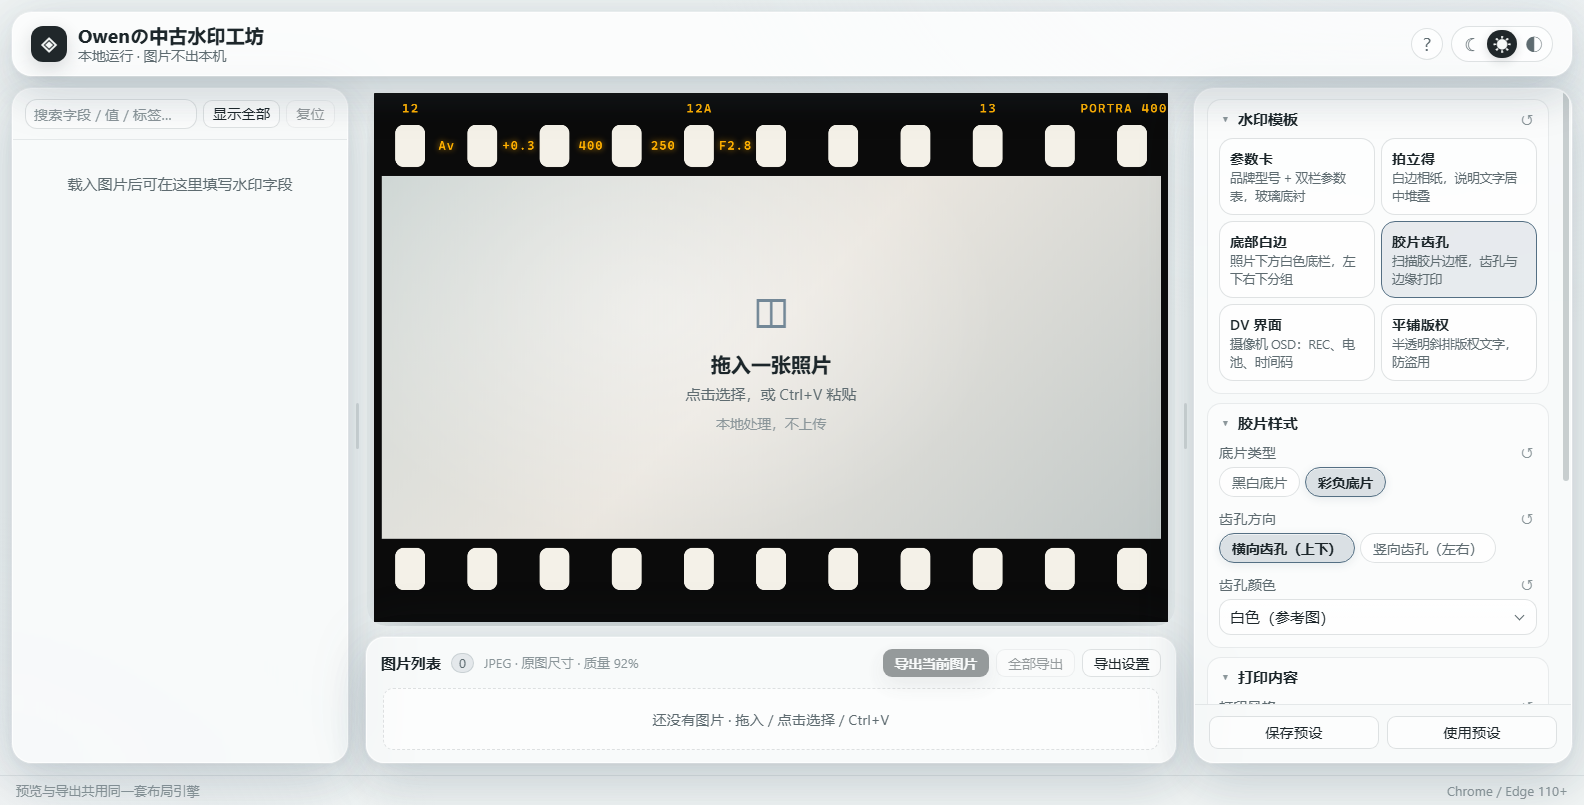
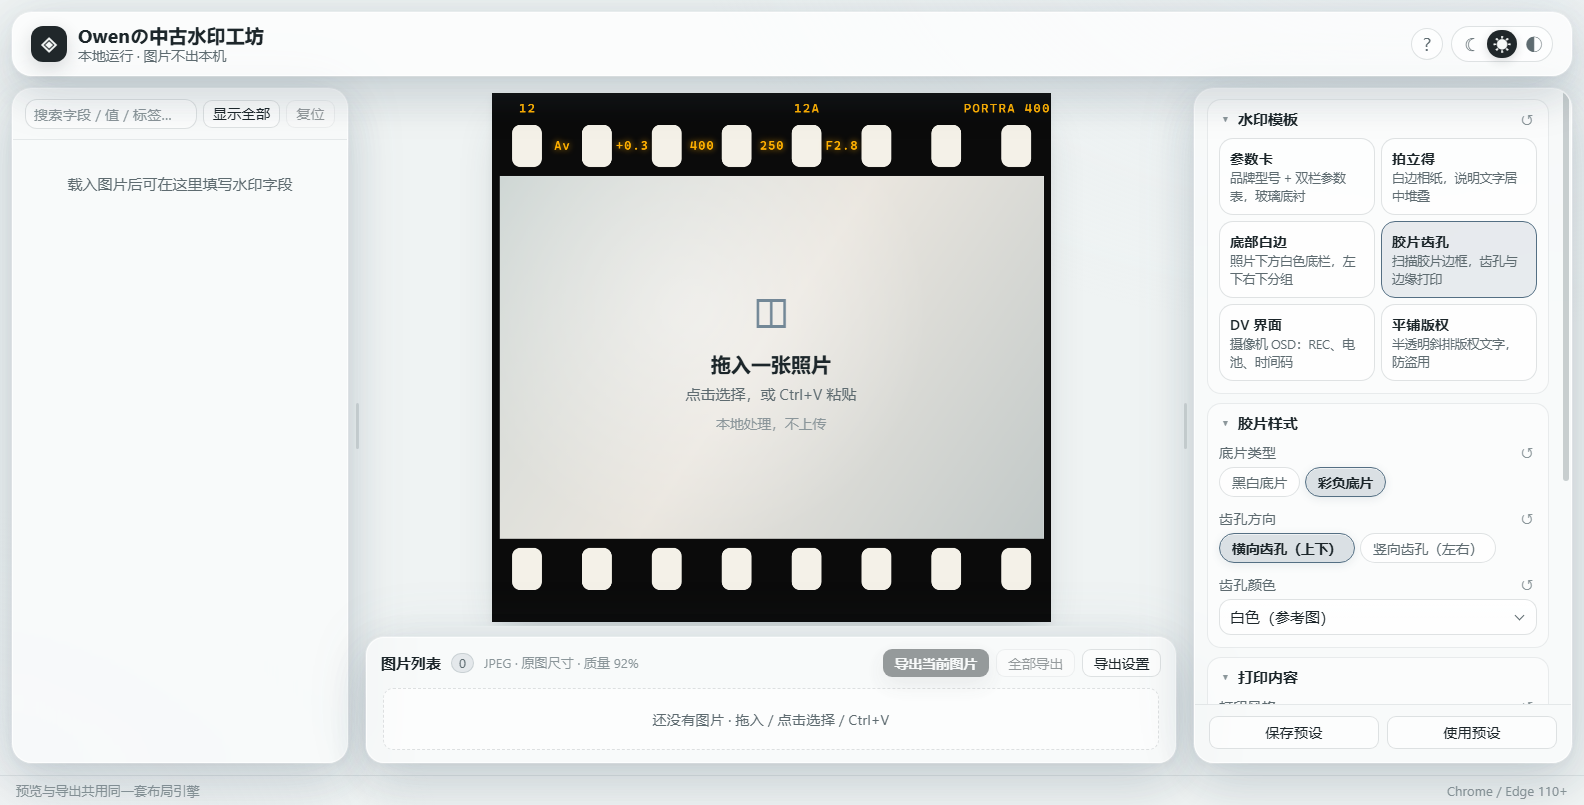
3:2 只约束照片本身，模板外框按自然比例包裹
- 参考照片固定 1200×800（3:2），与真实导入同一套 compose/render 管线
- 删除把整张成品强制掰成 3:2 的二分搜索；胶片/拍立得/白边外框保持自身比例
- 成品整体按舞台自适应，照片在成品中的占比随外框自然变小
- 未选模板时方块仍为 3:2 空白磨砂照片
- mock 检查改为断言照片区比例 1.5、成品外框约 1.32（白边）/ 1.06（胶片）

Changed region(s): [[0.2165, 0.0932, 0.7424, 0.7764]]

diff --git a/js/ui.js b/js/ui.js
@@ -36,6 +36,7 @@
     exifShowAll: false,
     previewZoom: 1,
     previewFit: { w: 0, h: 0 },
+    mockAspect: 1.5,
     zoomRaf: 0,
     panelWidths: { left: 336, right: 378 },
     panelApplied: { left: 336, right: 378 },
@@ -893,8 +894,8 @@
       canvas.hidden = true;
       empty.hidden = false;
       applyPhotoTheme(null);
-      applyEmptyFit();
       renderMockPreview();
+      applyEmptyFit();
       $id('preview-dims').textContent = '—';
       $id('preview-brand').textContent = '';
       $id('preview-template').textContent = templateName(settings.template);
@@ -1047,9 +1048,10 @@
     var availW = stage.clientWidth - padX;
     var availH = stage.clientHeight - padY;
     if (availW <= 0 || availH <= 0) return;
+    var aspect = app.mockAspect > 0 ? app.mockAspect : 1.5;
     var w = availW;
-    var h = w * 2 / 3;
-    if (h > availH) { h = availH; w = h * 3 / 2; }
+    var h = w / aspect;
+    if (h > availH) { h = availH; w = h * aspect; }
     box.style.width = Math.max(1, Math.round(w)) + 'px';
     box.style.height = Math.max(1, Math.round(h)) + 'px';
   }
@@ -1119,6 +1121,7 @@
     var hasTemplate = !!settings.template;
     if (box) box.classList.toggle('has-template', hasTemplate);
     if (!hasTemplate) {
+      app.mockAspect = 1.5;
       canvas.width = 1200;
       canvas.height = 800;
       canvas.getContext('2d').clearRect(0, 0, 1200, 800);
@@ -1128,36 +1131,22 @@
     var photo = mockPhotoCanvas();
     var summary = mockSummary();
     var fmt = previewDateFormatter();
-    // 二分搜索照片宽度，让模板整体输出尽量接近 3:2，
-    // 这样白边/胶片/拍立得的外框也能完整铺满这块参考照片。
-    function composeMock(w) {
-      return layout.compose({
-        imageW: w,
-        imageH: 800,
-        meta: summary,
-        settings: settings,
-        brandName: 'Canon',
-        logoAspect: 3,
-        logoEnabled: false,
-        luminance: 0.55,
-        remoteLocation: '',
-        formatDateOnly: fmt.date,
-        formatTimeOnly: fmt.time
-      });
-    }
-    var lo = 240;
-    var hi = 4200;
-    var scene = composeMock(1200);
-    var bestDiff = Math.abs(scene.output.w / scene.output.h - 1.5);
-    for (var i = 0; i < 10; i++) {
-      var mid = Math.round((lo + hi) / 2);
-      var trial = composeMock(mid);
-      var ratio = trial.output.w / trial.output.h;
-      var diff = Math.abs(ratio - 1.5);
-      if (diff < bestDiff) { bestDiff = diff; scene = trial; }
-      if (diff < 0.002) break;
-      if (ratio < 1.5) lo = mid; else hi = mid;
-    }
+    // 参考照片固定 1200×800（3:2）；外框由模板自己决定，
+    // 成品整体再按预览区自适应，照片占比因此会随外框变大而变小。
+    var scene = layout.compose({
+      imageW: 1200,
+      imageH: 800,
+      meta: summary,
+      settings: settings,
+      brandName: 'Canon',
+      logoAspect: 3,
+      logoEnabled: false,
+      luminance: 0.55,
+      remoteLocation: '',
+      formatDateOnly: fmt.date,
+      formatTimeOnly: fmt.time
+    });
+    app.mockAspect = scene.output.w / scene.output.h;
     render.draw(canvas, scene, { photo: photo, logo: null });
     app.lastScene = scene;
   }

diff --git a/css/app.css b/css/app.css
@@ -843,7 +843,6 @@ body.resizing * { cursor: col-resize !important; }
   display: block;
   width: 100%;
   height: 100%;
-  object-fit: contain;
 }
 .empty-copy {
   position: relative;

diff --git a/README.md b/README.md
@@ -37,7 +37,7 @@ node server.mjs
 - 常用栏的 4 张卡**默认全部展开**；搜索时只保留命中的卡片并自动展开，其余隐藏。
 - **常用栏 = 固定的水印字段清单，分 4 张卡**：相机与器材（品牌/型号/镜头）、曝光参数（焦距/光圈/快门/ISO/曝光补偿/拍摄模式）、文件信息（文件名/拍摄时间/时区/作者/版权）、地理位置（纬度/经度/海拔），共 **17 项**。**不管照片有没有 EXIF、字段值是有效还是空，这 17 行永远在、永远可双击修改/填入**；打开图片时先把全部 EXIF 读出来预填到对应行。空值显示为虚线「未填」占位，填入后水印立刻用新值渲染。修改只作用于界面与水印，**不写回原图、不影响导出的元数据**。曝光补偿与拍摄模式是真实参数：DV 曝光标尺的标记、胶片 Pentax 模式打印的档位/补偿都由它们驱动（缺省为 P / ±0.0）。
 - **「显示全部」= 只读全量**：仍按原有分组列出全部 EXIF/XMP/IPTC/ICC 字段，但**只可看、不可改**。工具栏按钮在两者间切换（记在 `wm.exif.v1`）。
-- **空状态就是一张 3:2 的空白参考照片**：中间预览区用与卡片同色的磨砂方块（直角、按舞台自适应大小）模拟一张照片，**选中的模板会实时画在这张参考照片上**（用一组示例参数展示版式与位置，方便在没导入照片时先看效果）；方块里仍保留「拖入一张照片 / 点击选择，或 Ctrl+V 粘贴」提示，整块可点击（也支持 Enter / Space），全页仍可拖入或粘贴。
+- **空状态就是一张 3:2 的空白参考照片**：中间预览区放一张 1200×800（3:2）的空白照片（直角、磨砂质感），**选中的模板会按真实渲染管线画上去**（示例参数展示版式与位置）。注意 3:2 指的是**照片本身**：胶片、拍立得、底部白边会把外框画在照片四周，成品整体再按舞台自适应，所以照片在成品里的占比会变小，这与导入真实照片时完全一致。方块里仍保留「拖入一张照片 / 点击选择，或 Ctrl+V 粘贴」提示，整块可点击（也支持 Enter / Space），全页仍可拖入或粘贴。
 - **顶栏不再有「选择图片」「载入示例」按钮**：选图入口统一为中间这块模拟照片。
 - EXIF 支持**双击值行内修改**：品牌、型号、镜头、光圈、快门、ISO、焦距、日期、GPS、作者、版权等会立即更新水印；其他纯文本行只改面板显示。修改仅影响界面与水印，不写回导出文件元数据。
 - **底部栏只有一张「图片列表」卡片**，位于中间列、预览下方（左右侧栏因此各自通高）：
@@ -212,11 +212,11 @@ node tests/cdp-check.mjs shots    "http://127.0.0.1:5173/?demo=canon-r5.jpg"
 
 - `selftest`：真实浏览器 **131 条断言**，含 XMP 容器 ISO、DOM 解析、六模板渲染、方向、导出后重新解析元数据、PNG、自定义 logo、预设、ZIP、日期/时间独立、品牌去重、字重隔离、胶片固定孔比例/孔向、Minolta/Pentax/Canon 预设、DV 取景框与满透明度、EXIF 可见性精简与分组折叠规则。
 - `controls`：逐模板修改所有可见滑块并比较画布像素，再点复位验证恢复默认；**44 个滑块**全部通过。
-- `mock`：无图状态断言 3:2 磨砂参考照片（比例 1.5 ±0.02、直角）、提示文案、顶栏无「选择图片/载入示例」；点击模板后画布实际绘制水印（模板输出比例仍为 1.5、提示保留），再次点击与双击都取消选择并清空水印。
+- `mock`：无图状态断言 3:2 空白参考照片（照片区比例 1.5 ±0.012、直角）、提示文案、顶栏无「选择图片/载入示例」；选底部白边后成品外框比例变为约 1.32、照片区仍 1.5；选胶片后成品约 1.06、照片区仍 1.5；再次点击与双击都取消选择并回到 3:2 空白照片。
 - `features`：新增 **导出设置弹窗**（背景 `blur`、控件在弹窗内、关闭后回到 host）、**预设条**（两个按钮、浮层最后一项为「导入预设」）、**左侧常用/全部两种模式**（常用 = 4 张卡 17 行且全部可编辑；全部 = 12 组 130 行且 0 个可编辑）、**滚轮缩放与双击复位**（滚轮变小、双击回自适应、最大不超过自适应）、**所有分区默认展开**（6 套模板逐一检查，胶片恰为「水印模板 / 胶片样式 / 打印内容」3 张）、**显示内容条件**（关掉地点不出现地点来源、勾自定义才出现自定义文字）、**DV 全扁平**（0 个带阴影图元）、**底栏无添加瓦片且图片不可拖**（清空后为可点击虚线框）、**底栏滚轮横滑**（17 张图时 `scrollLeft` 由 0 增至 240）、**下拉皮肤**等检查；并验证日期/时间独立与格式、品牌 logo 去重、拍立得字重隔离、底部白边 logo 位置与短竖线、胶片白色/黑色齿孔、型号只出现一次、片号 12/12A、Pentax 五段孔间参数、Minolta 贴右居中且竖向不压孔、Canon 右下日期、无打印、DV 取景框/分辨率/曝光/中心对焦、下拉大箭头。
 - `theme`：验证顶部栏右侧黑暗/开灯/跟随系统开关、照片低饱和主题色、模糊照片背景、系统深浅色跟随、localStorage 持久化，并断言**右侧分区与左侧分组圆角/描边/底色完全一致**（同款大卡片）、左侧常用栏 4 组 17 行全可编辑，并生成浅色/深色截图。
 - `files`：验证拖入第二张图自动切换、底部图片瓦片（只含图片，文件名在 `title`/`dataset`）、EXIF 始终可见与底部导出按钮。
-- 空状态截图：`shots/empty-state.png`（3:2 磨砂参考照片 + 默认模板水印，可直接点击选图）、`shots/mock-preview.png`（切换胶片模板后的参考效果）。
+- 空状态截图：`shots/empty-state.png`（3:2 空白参考照片 + 默认模板水印，可直接点击选图）、`shots/mock-preview.png`（胶片模板：3:2 照片被齿孔外框包住后的参考效果）。
 - `left`：验证底部图片卡片切换、EXIF 双击修改 Make / Model / FNumber、水印像素变化、复位与移除当前照片。
 - `resize`：验证网页字号 1.25 倍、左右侧栏真实鼠标拖动、键盘微调、双击复位、宽度持久化与移动端单列；同时断言**左右侧栏各自通高到底、底部图片列表卡与中间列同宽同缘、标题与右上三个导出按钮正确**、**预览区没有工具栏/页脚且面板背景透明无阴影**、**卡片柔光多段阴影生效**、**底栏所有缩略图等大且底边对齐（无缩放）**，以及预设条贴在右栏底部。
 - `real`：加载真实 45MB PNG，确认 XMP 摘要含品牌 / 镜头 / 光圈 / 快门 / ISO 并正常渲染。
